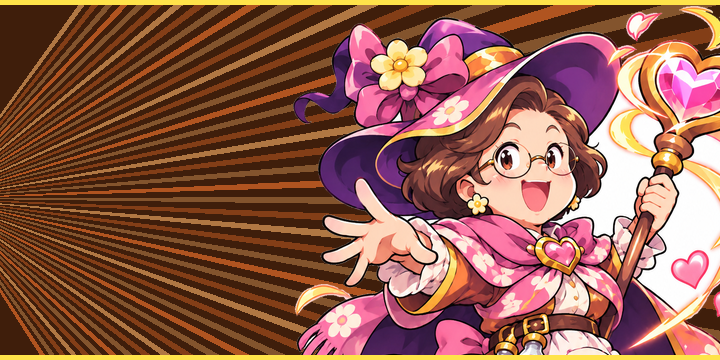
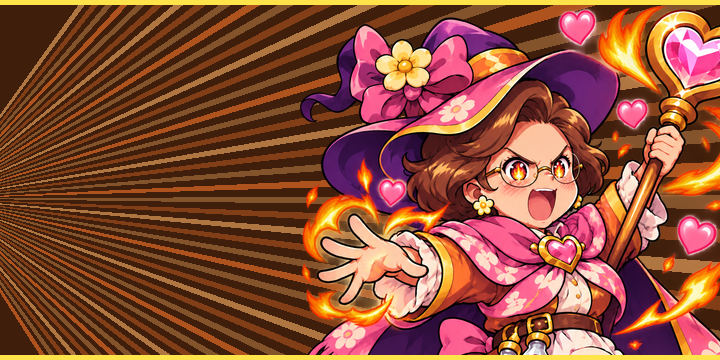
응가 팩: 삼촌 유산균 소환체 3종·전투 이펙트 8종·할머니 화난 얼굴 컷인 적용 — 팩 전용 추가 그림(없으면 기존 도형/그림), 변환기 grid 모드, 검수 스크립트 오프닝·정산 화면 대응
- 유산균 3마리가 튀어나와 고나 주변을 돌며 공격 → 2.3초에 만세 자세로 돌진 (메카 그림 대신, 같은 총 피해)
- 엄마 물방울 탄 · 폭포 입구 물보라 · 명중 물 튐 / 이모 프룬 구슬 · 보라 과즙 튐
- 할머니 하트·불꽃 스프라이트 / 할아버지 육각 방패 조각 + 튕겨 나가는 세균
- 케이크 버전: 팩 요청 0건 · 동작 변화 없음

Claude-Session: https://claude.ai/code/session_011LWBdaMrjA1BLGjF6h5PmT

diff --git a/src/sky/engine.ts b/src/sky/engine.ts
@@ -74,7 +74,7 @@ function compact<T>(arr: T[], keep: (v: T) => boolean, pool?: T[]): void {
   arr.length = j;
 }
 
-type PKind = 'shot' | 'wave' | 'charge' | 'heart' | 'star' | 'elec' | 'potion' | 'lance' | 'missile' | 'refl' | 'drill' | 'water' | 'prune';
+type PKind = 'shot' | 'wave' | 'charge' | 'heart' | 'star' | 'elec' | 'potion' | 'lance' | 'missile' | 'refl' | 'drill' | 'water' | 'prune' | 'probio';
 interface PBullet {
   x: number; y: number; vx: number; vy: number; r: number; dmg: number; kind: PKind; lvl: number;
   pierce: boolean; hits: number[]; life: number; scale: number; homing: number; age: number; alive: boolean;
@@ -99,7 +99,7 @@ interface Laser { x: number; y: number; ang: number; len: number; w: number; war
 interface Item { x: number; y: number; kind: 'cookie' | 'strawberry' | 'banana' | 'star'; age: number; alive: boolean }
 interface Particle { x: number; y: number; vx: number; vy: number; life: number; max: number; col: string; size: number; g: number }
 interface Boom { x: number; y: number; age: number; delay: number; scale: number }
-type FxKind = 'spark' | 'metal' | 'weak' | 'ring' | 'puff' | 'smoke';
+type FxKind = 'spark' | 'metal' | 'weak' | 'ring' | 'puff' | 'smoke' | 'wsplash' | 'psplash';
 interface Fx { kind: FxKind; x: number; y: number; age: number; dur: number; scale: number; vy: number }
 interface Prop { name: ArtName; x: number; y: number; v: number; layer: number; vx: number }
 interface Float { x: number; y: number; text: string; age: number; col: string }
@@ -1124,6 +1124,7 @@ export class SkyEngine {
         // 목욕 폭포: 화면 위에서 물줄기가 넓게 쏟아짐 (자동 유도 없음 · 넓은 범위)
         if (every(0.12)) {
           for (let i = 0; i < 2; i++) this.newPB(rand(12, W - 12), -8, rand(-12, 12), 230, 3, 2.2, 'water', false, 2.0).scale = 1.5;
+          if (this.a.extra['fx/water-splash']) this.addFx('wsplash', rand(16, W - 16), rand(6, 22), 1.1, 0.36); // 폭포 입구 물보라
           if (every(0.36)) sfx('compShot', 1, 1.1);
         }
         break;
@@ -1188,7 +1189,16 @@ export class SkyEngine {
           }
           sfx('compShot', 0.8, 0.6);
         }
-        if (pe < 2.3 && e >= 2.3) {
+        if (pe < 2.3 && e >= 2.3 && this.a.extra['chars/samchon/probiotic']) {
+          // 응가 팩: 메카 대신 유산균 3마리가 만세 자세로 위로 돌진 (같은 총 피해)
+          for (let i = 0; i < 3; i++) {
+            const [x, y] = this.probioticPos(i);
+            const b = this.newPB(x, y, 0, -300, 10, 14, 'probio', true, 1.6);
+            b.lvl = i;
+          }
+          this.kick(0.4);
+          sfx('boomM');
+        } else if (pe < 2.3 && e >= 2.3) {
           const b = this.newPB(this.px, this.py - 50, 0, -320, 26, 40, 'drill', true, 1.6);
           b.scale = 1;
           this.kick(0.4);
@@ -2066,7 +2076,9 @@ export class SkyEngine {
   /** 피해 처리. src: 맞힌 탄 종류(이펙트·소리 결정), hx/hy: 맞은 위치 */
   private damage(e: Enemy, dmg: number, src: PKind | 'bomb' | 'beam' | 'body' | 'melee', hx: number, hy: number): void {
     if (e.dead || e.y < -6) return;
-    const strong = src === 'charge' || src === 'drill';
+    // 응가 팩: 물방울·프룬 구슬이 맞으면 물/보라 과즙 튐 (팩 그림이 있을 때만)
+    if ((src === 'water' || src === 'prune') && Math.random() < 0.45 && this.a.extra[src === 'water' ? 'fx/water-splash' : 'fx/prune-splash']) this.addFx(src === 'water' ? 'wsplash' : 'psplash', hx, hy, 0.7, 0.26);
+    const strong = src === 'charge' || src === 'drill' || src === 'probio';
     const special = !!this.sp && src !== 'shot' && src !== 'wave' && src !== 'charge' && src !== 'melee';
     if (e.kind === 'boss') {
       const b = this.bsOf(e);
@@ -2417,6 +2429,15 @@ export class SkyEngine {
     this.g.drawImage(im, fi * fw, 0, fw, im.height, x - w / 2, y - h / 2, w, h);
   }
 
+  /** 격자 시트 (cols×rows) 의 한 칸 */
+  private cell(im: HTMLImageElement, col: number, row: number, cols: number, rows: number, x: number, y: number, k = 1): void {
+    const fw = im.width / cols;
+    const fh = im.height / rows;
+    const w = (fw * k) / R;
+    const h = (fh * k) / R;
+    this.g.drawImage(im, col * fw, row * fh, fw, fh, x - w / 2, y - h / 2, w, h);
+  }
+
   private draw(): void {
     const g = this.g;
     g.setTransform(R, 0, 0, R, 0, 0);
@@ -2667,7 +2688,15 @@ export class SkyEngine {
       g.globalAlpha = 1;
     } else if (s.id === 'halmeoni') {
       this.frame(v['fx/sp-aura'], Math.floor(e * 8) % 4, 4, this.px, this.py, 1.2);
-    } else if (s.id === 'samchon') {
+      const fl = this.a.extra['fx/flame'];
+      if (fl) {
+        // 불꽃의 약손: 몸 둘레를 도는 불꽃 3개 (살짝 커졌다 작아짐)
+        for (let i = 0; i < 3; i++) {
+          const a = this.t * 3 + (i * TAU) / 3;
+          this.frame(fl, 0, 1, this.px + Math.cos(a) * 20, this.py - 4 + Math.sin(a) * 12, 0.7 + Math.sin(this.t * 14 + i) * 0.08);
+        }
+      }
+    } else if (s.id === 'samchon' && !this.a.extra['chars/samchon/probiotic']) {
       const enter = Math.min(1, e / 0.35);
       const exit = e > 2.3 ? (e - 2.3) * 520 : 0;
       const my = this.py - 50 + (1 - enter) * 120 - exit;
@@ -2726,6 +2755,14 @@ export class SkyEngine {
       case 'weak': this.frame(v['fx/weak'], Math.min(3, Math.floor(k * 4)), 4, f.x, f.y, f.scale); break;
       case 'ring': this.frame(v['fx/ring'], Math.min(3, Math.floor(k * 4)), 4, f.x, f.y, f.scale); break;
       case 'puff': this.frame(v['fx/steam-puff'], Math.min(2, Math.floor(k * 3)), 3, f.x, f.y, f.scale); break;
+      case 'wsplash': case 'psplash': {
+        const im = this.a.extra[f.kind === 'wsplash' ? 'fx/water-splash' : 'fx/prune-splash'];
+        if (!im) break;
+        this.g.globalAlpha = k > 0.6 ? Math.max(0, (1 - k) / 0.4) : 1;
+        this.frame(im, 0, 1, f.x, f.y - k * 4, f.scale * (0.7 + k * 0.5));
+        this.g.globalAlpha = 1;
+        break;
+      }
       case 'smoke': {
         // 보스 파손 연기: 회색 구름을 어둡게 (미리 구운 사본)
         const g = this.g;
@@ -2868,6 +2905,8 @@ export class SkyEngine {
       case 'heart': this.frame(v['fx/heart-p'], Math.floor(b.age * 8) % 2, 2, b.x, b.y, b.scale > 1 ? 2 : 1.5); return;
       // 물방울 (엄마): 하늘색 물방울 + 흰 하이라이트 — 단순 탄환 모양 (임시 효과)
       case 'water': {
+        const wd = this.a.extra['fx/water-drop'];
+        if (wd) { this.frame(wd, 0, 1, b.x, b.y, b.scale > 1 ? 1.15 : 0.85); return; }
         const g = this.g;
         const r = (b.scale > 1 ? 3 : 2.2) * (1 + Math.sin(b.age * 14) * 0.08);
         g.fillStyle = '#2f9fd8'; g.beginPath(); g.arc(b.x, b.y, r + 0.8, 0, TAU); g.fill();
@@ -2877,6 +2916,8 @@ export class SkyEngine {
       }
       // 프룬 구슬 (이모): 보라 구슬 + 연보라 하이라이트 — 단순 탄환 모양 (임시 효과)
       case 'prune': {
+        const po = this.a.extra['fx/prune-orb'];
+        if (po) { this.frame(po, 0, 1, b.x, b.y, b.scale > 1 ? 1.1 : 0.8); return; }
         const g = this.g;
         const r = (b.scale > 1 ? 3 : 2.4) * (1 + Math.sin(b.age * 12) * 0.1);
         g.fillStyle = '#3d1466'; g.beginPath(); g.arc(b.x, b.y, r + 0.8, 0, TAU); g.fill();
@@ -2890,6 +2931,11 @@ export class SkyEngine {
       case 'lance': case 'refl': this.frame(v['fx/lance'], 0, 1, b.x, b.y, 1.3); return;
       case 'missile': this.blit(this.pbSprite('fx/missile', Math.atan2(b.vy, b.vx) + Math.PI / 2, Math.floor(b.age * 12) % 2, 2), b.x, b.y); return;
       case 'drill': this.frame(v['fx/mech'], 0, 1, b.x, b.y, 1); return;
+      case 'probio': {
+        const pr = this.a.extra['chars/samchon/probiotic'];
+        if (pr) this.cell(pr, 3, b.lvl % 3, 4, 3, b.x, b.y, 1.2);
+        return;
+      }
     }
   }
 
@@ -2903,9 +2949,15 @@ export class SkyEngine {
   private drawProbiotic(): void {
     const s = this.sp;
     if (!s || s.id !== 'samchon' || s.t < s.cut || s.t > s.cut + 3.0) return;
+    const pr = this.a.extra['chars/samchon/probiotic'];
+    const e = s.t - s.cut;
     for (let i = 0; i < 3; i++) {
       const [x, y] = this.probioticPos(i);
-      this.frame(this.a.v2['fx/charge-orb'], Math.floor(this.t * 10 + i) % 4, 4, x, y, 0.55);
+      if (pr) {
+        if (e >= 2.3) continue; // 돌진한 뒤에는 탄(probio)이 그림
+        const pop = Math.min(1, e / 0.25); // 튀어나오며 커짐
+        this.cell(pr, Math.floor(this.t * 6 + i) % 3, i, 4, 3, x, y + (1 - pop) * 8, 0.6 + pop * 0.4);
+      } else this.frame(this.a.v2['fx/charge-orb'], Math.floor(this.t * 10 + i) % 4, 4, x, y, 0.55);
     }
   }
 
@@ -2945,19 +2997,38 @@ export class SkyEngine {
       g.globalAlpha = 1;
     }
     if (this.sp && this.sp.id === 'halabeoji' && this.sp.t >= this.sp.cut) {
-      // 유해균 방패: 방패 둘레를 도는 보라 점 (세균 막 · 임시 효과)
+      // 유해균 방패: 방패 둘레를 도는 육각 방패 조각 + 다가오다 튕겨 나가는 세균 (팩 그림 없으면 보라 점)
+      const hx = this.a.extra['fx/hex'];
+      const gm = this.a.extra['fx/germ'];
       for (let i = 0; i < 6; i++) {
         const a = this.t * 2.4 + (i * TAU) / 6;
-        g.fillStyle = '#c9a0ff';
-        g.fillRect(Math.round(this.px + Math.cos(a) * 30) - 1, Math.round(this.py - 14 + Math.sin(a) * 20) - 1, 3, 3);
+        const x = this.px + Math.cos(a) * 30;
+        const y = this.py - 14 + Math.sin(a) * 20;
+        if (hx) this.frame(hx, 0, 1, x, y, 0.8);
+        else {
+          g.fillStyle = '#c9a0ff';
+          g.fillRect(Math.round(x) - 1, Math.round(y) - 1, 3, 3);
+        }
+      }
+      if (gm) {
+        for (let i = 0; i < 4; i++) {
+          const ph = (this.t * 0.9 + i * 0.25) % 1; // 0→1: 바깥에서 다가옴 → 방패에 닿으면 튕겨 나감
+          const a = i * 1.7 + 0.6;
+          const r = ph < 0.7 ? 78 - ph * 60 : 36 + (ph - 0.7) * 160;
+          g.globalAlpha = ph < 0.7 ? 1 : Math.max(0, 1 - (ph - 0.7) / 0.3);
+          this.frame(gm, 0, 1, this.px + Math.cos(a) * r, this.py - 14 + Math.sin(a) * r * 0.75, ph < 0.7 ? 0.8 : 0.6);
+        }
+        g.globalAlpha = 1;
       }
     }
     if (this.healHearts.length) {
       const hv = this.a.v2['fx/heart-p'];
+      const hh = this.a.extra['fx/heal-heart'];
       for (const h of this.healHearts) {
         const age = this.t - h.t0;
         g.globalAlpha = clamp(1 - age / 1.1, 0, 1);
-        this.frame(hv, Math.floor(age * 8) % 2, 2, h.x + Math.sin(age * 6 + h.x) * 3, h.y - age * 42, 1.2);
+        if (hh) this.frame(hh, 0, 1, h.x + Math.sin(age * 6 + h.x) * 3, h.y - age * 42, 0.75 + Math.min(age, 0.2));
+        else this.frame(hv, Math.floor(age * 8) % 2, 2, h.x + Math.sin(age * 6 + h.x) * 3, h.y - age * 42, 1.2);
       }
       g.globalAlpha = 1;
       compact(this.healHearts, (h) => this.t - h.t0 < 1.1);

diff --git a/src/sky/assets.ts b/src/sky/assets.ts
@@ -21,6 +21,12 @@ export const V2_NAMES = [
 ] as const;
 export type V2Name = (typeof V2_NAMES)[number];
 export const CUTIN_IDS = ['gona', 'mom', 'dad', 'imo', 'halmeoni', 'halabeoji', 'samchon'] as const;
+/** 응가 팩에만 있는 추가 그림 (팩에 없으면 null → 엔진이 기존 도형/그림으로 대체) */
+export const EXTRA_NAMES = [
+  'fx/water-drop', 'fx/prune-orb', 'fx/heal-heart', 'fx/flame', 'fx/hex', 'fx/germ', 'fx/prune-splash', 'fx/water-splash',
+  'chars/samchon/probiotic',
+] as const;
+export type ExtraName = (typeof EXTRA_NAMES)[number];
 export type CutinId = (typeof CUTIN_IDS)[number];
 
 export interface Assets {
@@ -29,6 +35,8 @@ export interface Assets {
   gonaSheet: HTMLImageElement;
   v2: Record<V2Name, HTMLImageElement>;
   cutin: Record<CutinId, HTMLImageElement | null>;
+  /** 응가 팩 추가 그림 (없으면 null) */
+  extra: Record<ExtraName, HTMLImageElement | null>;
   /** 흰색 번쩍임 사본 캐시 */
   flash: Map<CanvasImageSource, HTMLCanvasElement>;
 }
@@ -54,19 +62,22 @@ export function loadAssets(): Promise<Assets> {
     // 응가 테마: 신규 그림 팩 목록을 먼저 읽고, 있는 그림만 v3-poop 에서 (없으면 기존 v2)
     await loadArtPack(BASE);
     applyPackToStages(STAGES);
-    const [imgs, gonaSheet, v2list, cutins] = await Promise.all([
+    const [imgs, gonaSheet, v2list, cutins, extras] = await Promise.all([
       Promise.all(IMG_NAMES.map((n) => loadUrl(`${BASE}${n}.png`, false))),
       loadUrl(`${BASE}${packPath('chars/gona/sprite.png')}`, false),
       Promise.all(V2_NAMES.map((n) => loadUrl(`${BASE}${packPath(`${n}.png`)}`, false))),
       Promise.all(CUTIN_IDS.map((n) => loadUrl(`${BASE}${packPath(`chars/${n}/cutin.png`, `v2/chars/${n}/cutin.${n === 'gona' ? 'png' : 'jpg'}`)}`, true))),
+      Promise.all(EXTRA_NAMES.map((n) => (hasPack(`${n}.png`) ? loadUrl(`${BASE}${packPath(`${n}.png`)}`, true) : Promise.resolve(null)))),
     ]);
+    const extra = {} as Record<ExtraName, HTMLImageElement | null>;
+    EXTRA_NAMES.forEach((n, i) => (extra[n] = extras[i]));
     const v2 = {} as Record<V2Name, HTMLImageElement>;
     V2_NAMES.forEach((n, i) => (v2[n] = v2list[i]!));
     const img = {} as Record<ImgName, HTMLImageElement>;
     IMG_NAMES.forEach((n, i) => (img[n] = imgs[i]!));
     const cutin = {} as Record<CutinId, HTMLImageElement | null>;
     CUTIN_IDS.forEach((n, i) => (cutin[n] = cutins[i]));
-    return { img, gonaSheet: gonaSheet!, v2, cutin, flash: new Map() };
+    return { img, gonaSheet: gonaSheet!, v2, cutin, extra, flash: new Map() };
   })();
   return cache;
 }

diff --git a/tools/sky-art-import.py b/tools/sky-art-import.py
@@ -233,7 +233,7 @@ def save(im, rel, args, meta, orig):
 
 def main():
     ap = argparse.ArgumentParser()
-    ap.add_argument('kind', choices=['illust', 'face', 'cutin', 'fly', 'enemy', 'prop', 'midboss', 'boss', 'bg', 'keyart', 'logo'])
+    ap.add_argument('kind', choices=['illust', 'face', 'cutin', 'fly', 'grid', 'enemy', 'prop', 'midboss', 'boss', 'bg', 'keyart', 'logo'])
     ap.add_argument('src')
     ap.add_argument('--id', choices=FAMILY)
     ap.add_argument('--stage', default='stage1')
@@ -249,6 +249,10 @@ def main():
     ap.add_argument('--auto-split', action='store_true', help='fly: 칸이 고르지 않은 생성 시트에서 캐릭터 4개를 자동으로 찾아 분리')
     ap.add_argument('--compose', action='store_true', help='cutin: 확정 원화(상반신)를 집중선 배경 위에 배치해 720×360 컷인 합성')
     ap.add_argument('--color', default='#8a3fd1', help='cutin --compose 집중선 색')
+    ap.add_argument('--grid', help='grid: 행x열 (예 3x4) — 생성 시트를 고른 칸으로 나눔')
+    ap.add_argument('--cell', help='grid: 결과 칸 크기 WxH (예 40x40)')
+    ap.add_argument('--out', help='grid: 팩 안 저장 경로 (예 chars/samchon/probiotic.png)')
+    ap.add_argument('--row-scale', action='store_true', help='grid: 배율을 행마다 따로 (행 = 한 캐릭터 애니메이션)')
     args = ap.parse_args()
     im = load(args.src)
     if args.remove_bg:
@@ -261,6 +265,33 @@ def main():
 
     if k in ('illust', 'face', 'cutin', 'fly') and not args.id:
         die('--id 가 필요합니다')
+
+    if k == 'grid':
+        # 고른 칸 시트 (유산균 소환체 3종×4프레임, 이펙트 모음 등): 칸마다 트림 → 공통 배율 → 칸 가운데 정렬
+        if not (args.grid and args.cell and args.out):
+            die('grid 는 --grid RxC --cell WxH --out 경로 가 필요합니다')
+        R, C = map(int, args.grid.lower().split('x'))
+        cw, ch = map(int, args.cell.lower().split('x'))
+        gw, gh = im.width / C, im.height / R
+        tr = [[trim(im.crop((round(c * gw), round(r * gh), round((c + 1) * gw), round((r + 1) * gh)))) for c in range(C)] for r in range(R)]
+        m = 2  # 칸 안 여백
+        def scale(cells):
+            return min((cw - m * 2) / max(t.width for t in cells), (ch - m * 2) / max(t.height for t in cells), 1.0)
+        kall = scale([t for row in tr for t in row])
+        out = Image.new('RGBA', (cw * C, ch * R))
+        for r, row in enumerate(tr):
+            kk = scale(row) if args.row_scale else kall
+            for c, t in enumerate(row):
+                f = t.resize((max(1, round(t.width * kk)), max(1, round(t.height * kk))), Image.LANCZOS)
+                out.paste(f, (c * cw + (cw - f.width) // 2, r * ch + (ch - f.height) // 2), f)
+        out = pixelize(out, 96)
+        if args.row_scale and C >= 2:
+            for r in range(R):
+                motion_check([out.crop((c * cw, r * ch, (c + 1) * cw, (r + 1) * ch)) for c in range(C)])
+        report(out, args.out)
+        meta = {'rows': R, 'cols': C, 'cell': [cw, ch]}
+        save(out, args.out, args, meta, args.src)
+        return
 
     if k == 'illust':
         if not has_alpha(im):

diff --git a/docs/sky-reboot/credit-log.md b/docs/sky-reboot/credit-log.md
@@ -11,3 +11,6 @@
 | 5 | 할머니 비행 시트 | 같은 설정 | 1 | 1 | 5 |
 | – | 할아버지 비행 시트 (1차) | 같은 설정 | 1 | 0 (요청량 제한 429 로 제출 거부 — 작업 생성 안 됨) | 5 |
 | 6 | 할아버지 비행 시트 (재제출) | 같은 설정 | 1 | 1 | 6 |
+| 7 | 삼촌 유산균 소환체 3종×4프레임 | GPT Image 2.6 medium 2k 투명 3:2 + 참고 2장 (삼촌 원화 · 엄마 비행 시트) | 1 | 1 | 7 |
+| 8 | 전투 이펙트 8종 (물방울 · 프룬 구슬 · 하트 · 불꽃 · 육각 방패 · 세균 · 보라/물 스플래시) | GPT Image 2.6 medium 2k 투명 16:9 + 참고 1장 | 1 | 1 | 8 |
+| 9 | 할머니 화난 얼굴 (필살기 컷인용 상반신) | GPT Image 2.6 medium 2k 투명 2:3 + 할머니 원화 | 1 | 1 | 9 |
